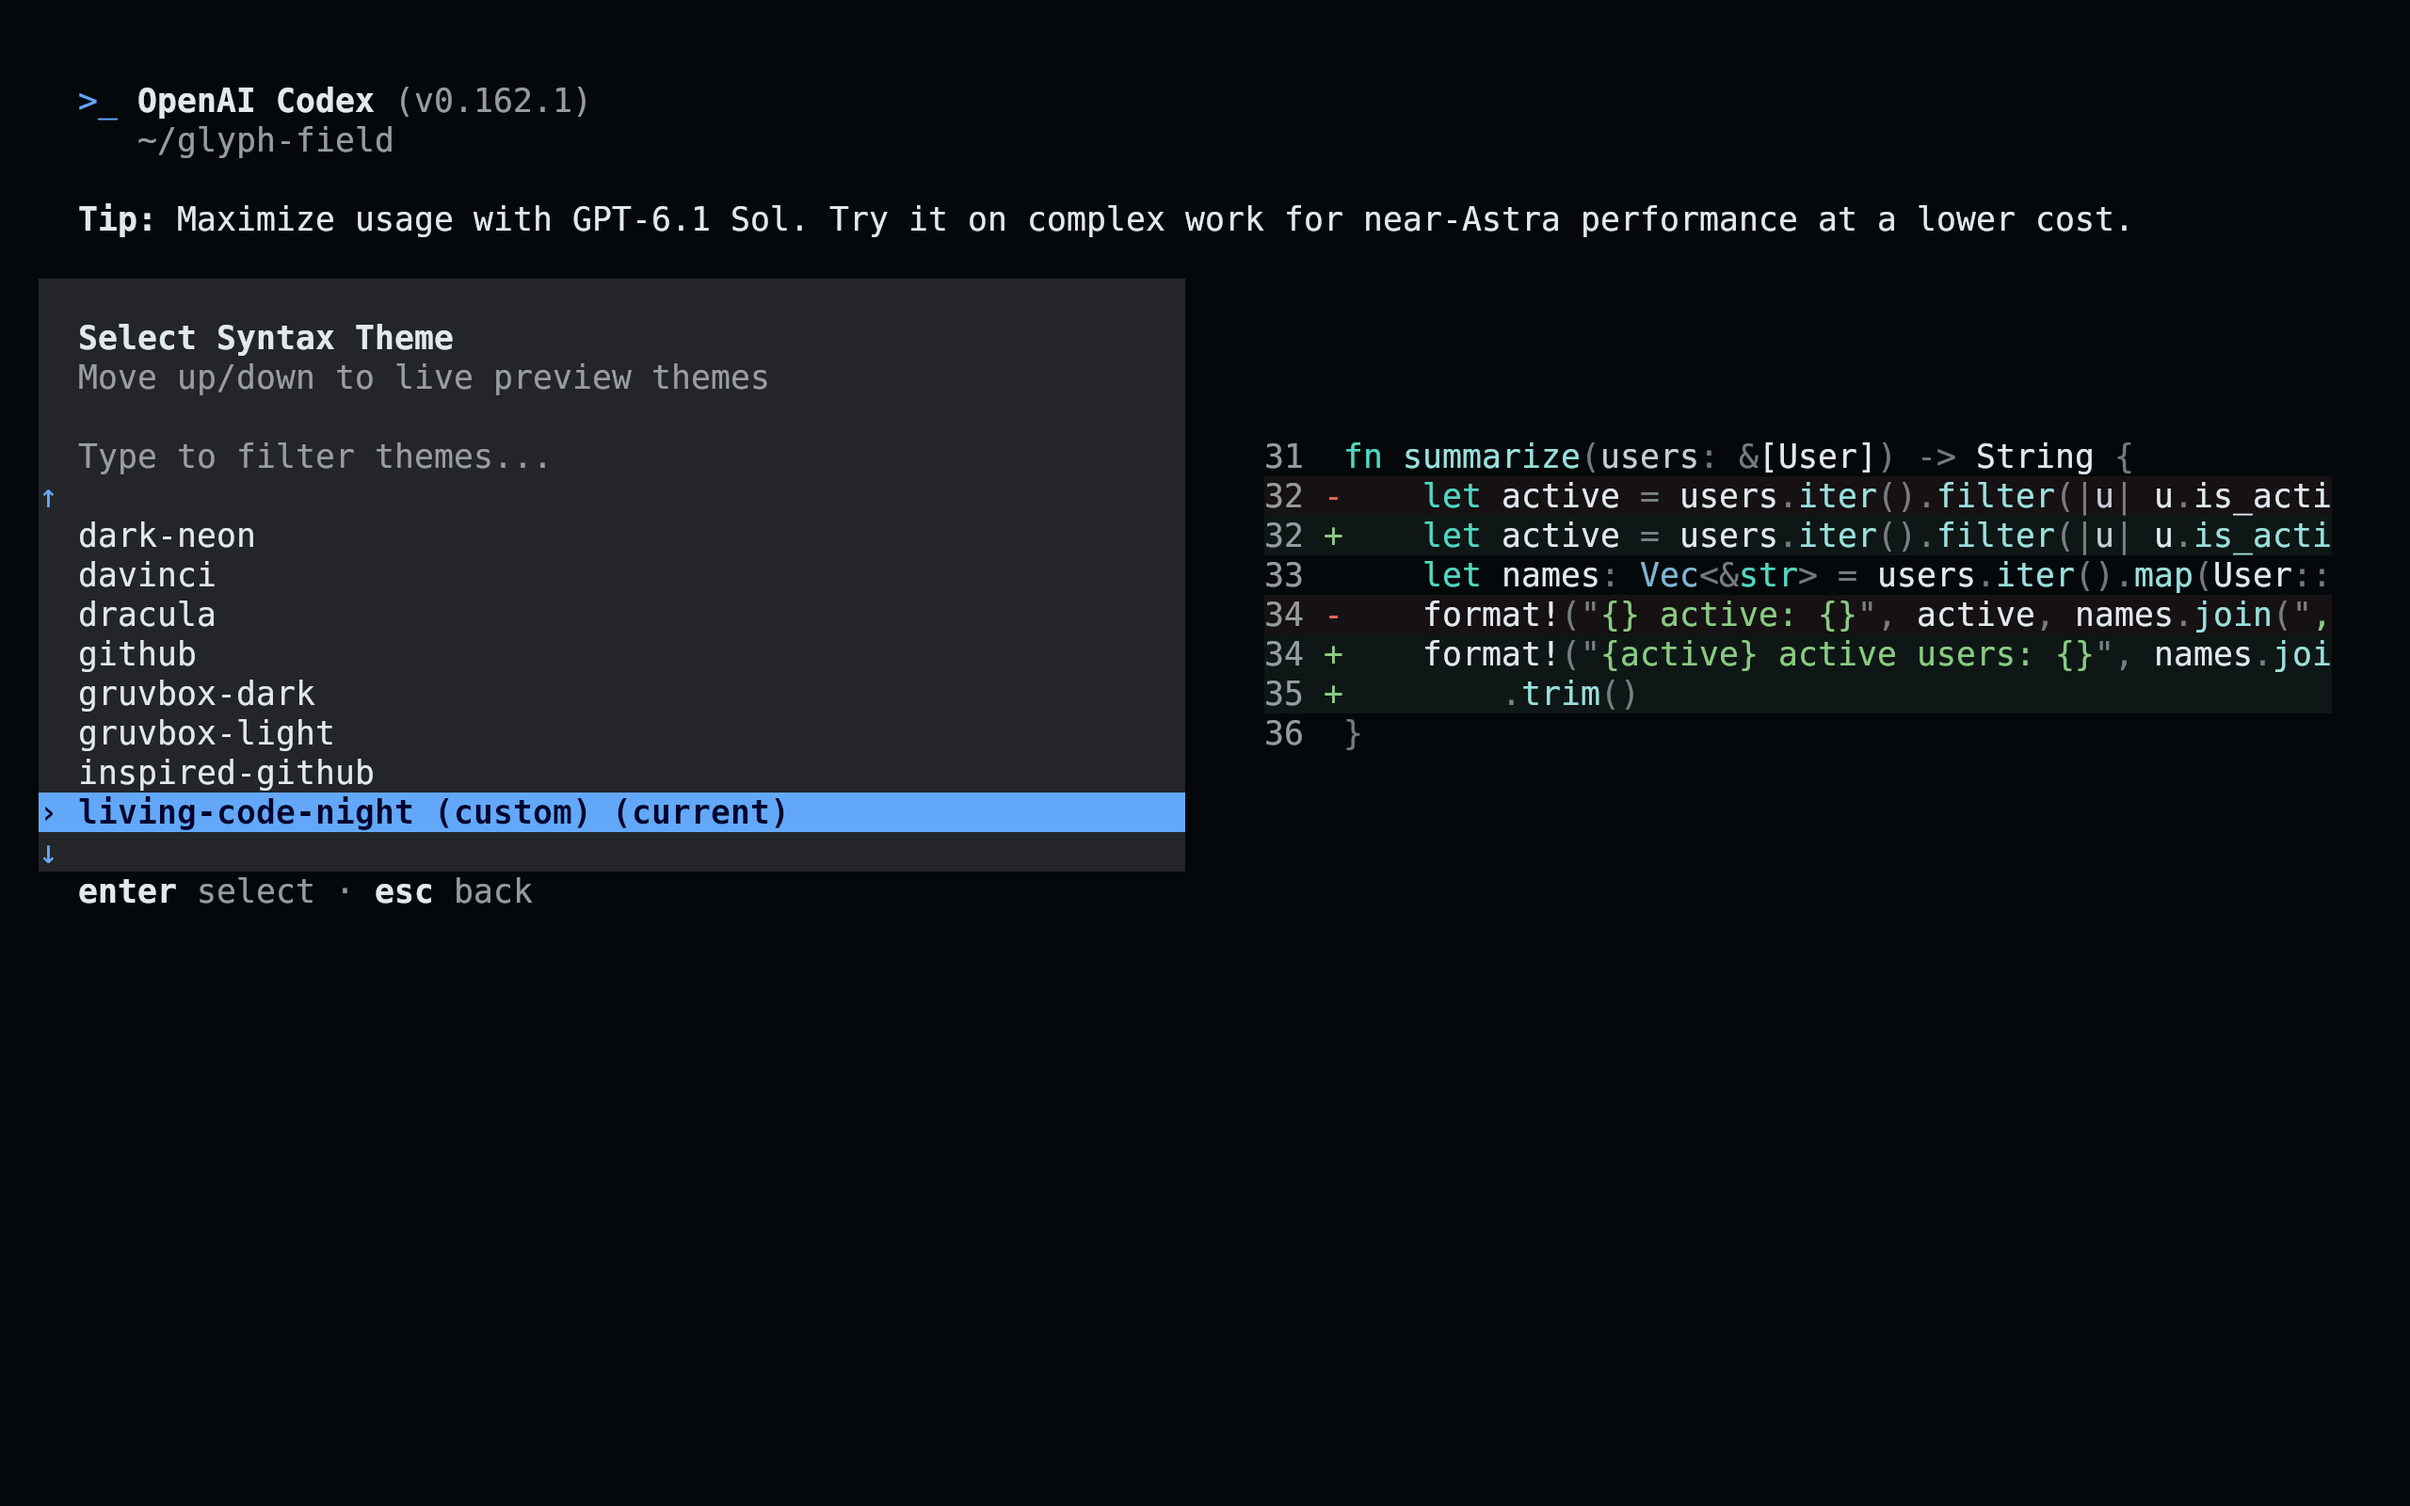
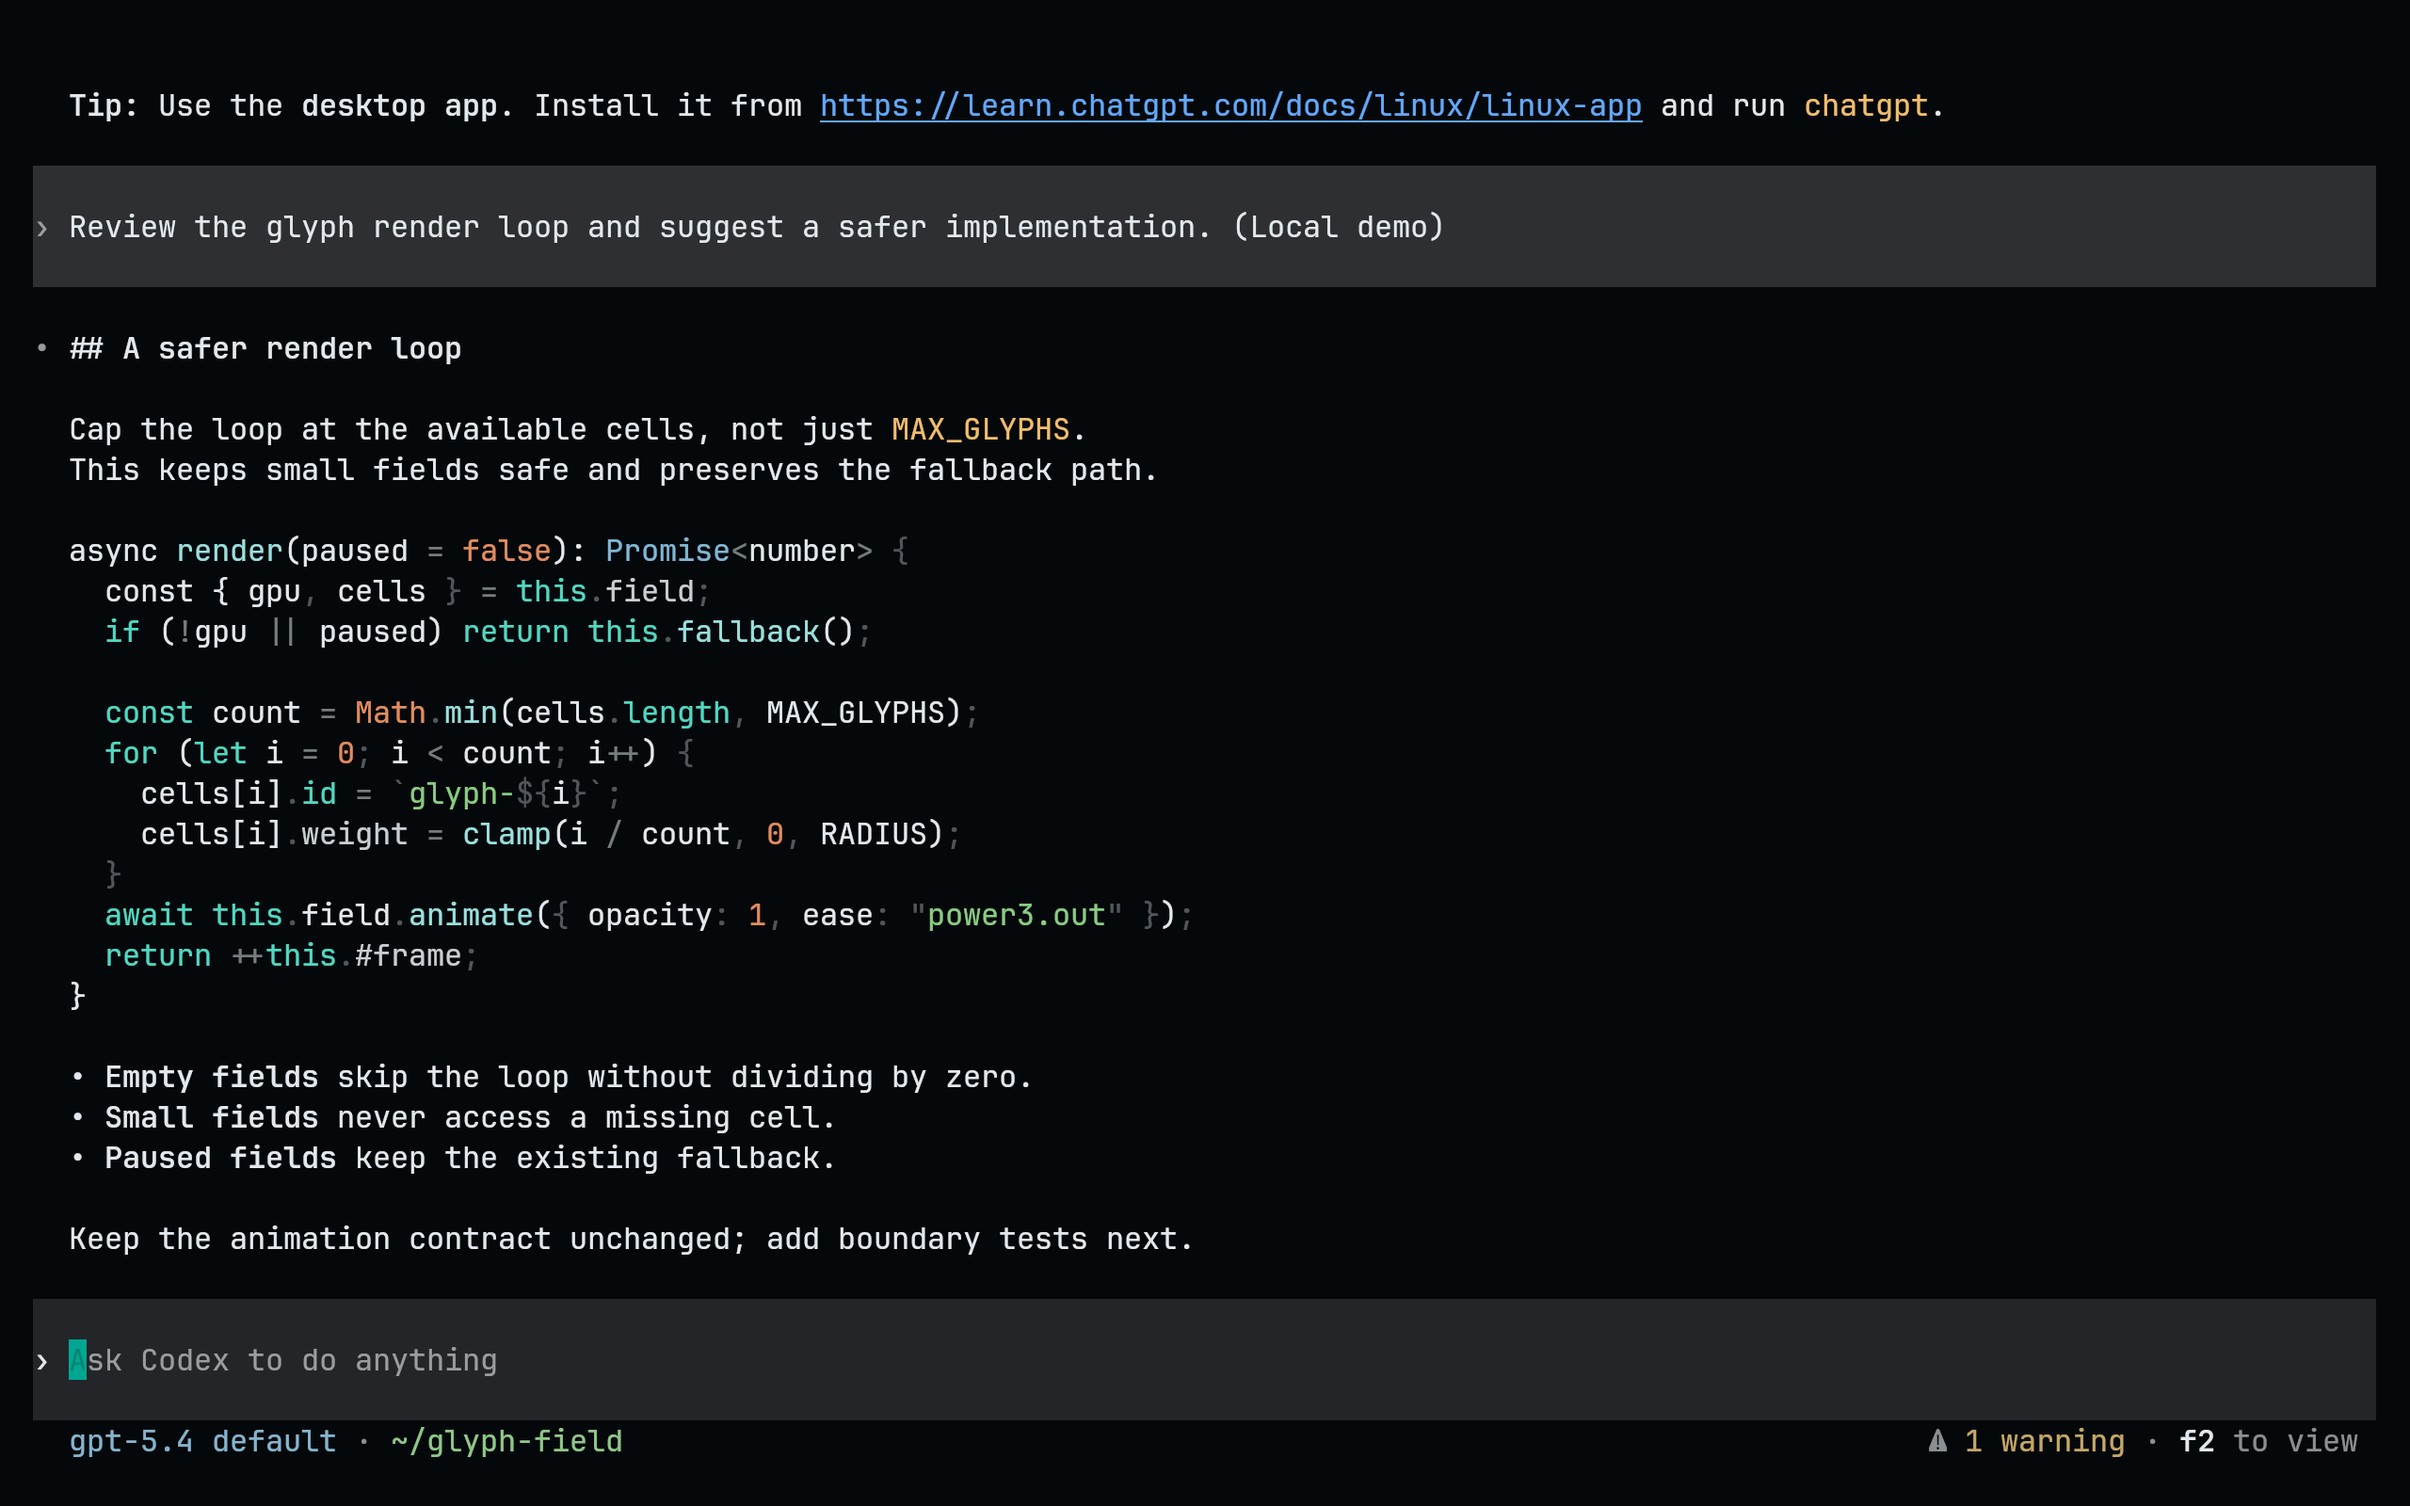
feat: refresh native review previews and verify syntax roles

diff --git a/capture/app.py b/capture/app.py
@@ -1,13 +1,18 @@
-"""Use Codex's real theme picker and native sample-code preview, without inference."""
+"""Resume a port-owned demo rollout in Codex. No credentials or inference."""
+import json
+
+
+SESSION = 'a40d1e4c-1150-4000-8000-000000000010'
 
 
 def prepare(c):
     c.git_fixture()
     c.copy(f'themes/{c.slug}.tmTheme', f'.codex/themes/{c.slug}.tmTheme')
     c.write('.codex/config.toml', f'''model_provider = "capture"
-model = "fixture"
+model = "gpt-5.4"
+check_for_update_on_startup = false
 [model_providers.capture]
-name = "Local screenshot fixture (offline)"
+name = "Local demo (offline)"
 base_url = "http://127.0.0.1:9/v1"
 wire_api = "responses"
 requires_openai_auth = false
@@ -17,12 +22,22 @@ theme = "{c.slug}"
 trust_level = "trusted"
 ''')
     c.env['CODEX_HOME'] = str(c.home / '.codex')
-    return ['codex', '--no-alt-screen']
+    timestamp = '2026-01-01T12:00:00.000Z'
+    prompt = 'Review the glyph render loop and suggest a safer implementation. (Local demo)'
+    review = (c.root / 'capture/review.md').read_text()
+    records = [
+        ('session_meta', {'id': SESSION, 'session_id': SESSION, 'timestamp': timestamp, 'cwd': str(c.work),
+                          'originator': 'codex_cli_rs', 'cli_version': '0.162.1', 'source': 'cli', 'model_provider': 'capture'}),
+        ('response_item', {'type': 'message', 'role': 'user', 'content': [{'type': 'input_text', 'text': prompt}]}),
+        ('event_msg', {'type': 'user_message', 'message': prompt, 'images': []}),
+        ('response_item', {'type': 'message', 'role': 'assistant', 'content': [{'type': 'output_text', 'text': review}],
+                           'phase': 'final_answer'}),
+        ('event_msg', {'type': 'agent_message', 'message': review, 'phase': 'final_answer'}),
+    ]
+    c.write(f'.codex/sessions/2026/01/01/rollout-2026-01-01T12-00-00-{SESSION}.jsonl',
+            '\n'.join(json.dumps({'timestamp': timestamp, 'type': kind, 'payload': payload}) for kind, payload in records) + '\n')
+    return ['codex', '--no-daemon', '--no-alt-screen', 'resume', SESSION]
 
 
 def drive(c):
-    c.wait_text(r'fixture default')
-    c.type('/theme')
-    c.wait_text(r'choose a syntax highlighting theme')
-    c.key('enter')
-    c.wait_text(r'filter themes|Choose a theme|Syntax highlighting theme|Theme preview|Select theme')
+    c.wait_text(r'add boundary tests next')

diff --git a/scripts/capture.py b/scripts/capture.py
@@ -185,7 +185,7 @@ export class FieldRenderer {
         role = lambda name: colors[self.flavor['roles'][name]]['hex']
         options = {'linux_display_server': 'x11', 'hide_window_decorations': 'yes', 'remember_window_size': 'no',
                    'initial_window_width': str(WIDTH), 'initial_window_height': str(HEIGHT),
-                   'font_family': 'DejaVu Sans Mono', 'font_size': '26', 'window_padding_width': '24',
+                   'font_family': 'JetBrains Mono', 'font_size': '24', 'window_padding_width': '24',
                    'cursor_blink_interval': '0', 'enable_audio_bell': 'no', 'allow_remote_control': 'yes',
                    'background': role('bg'), 'foreground': role('fg'), 'cursor': role('cursor'),
                    'selection_background': role('selection'), 'selection_foreground': role('fg')}

diff --git a/README.md b/README.md
@@ -107,11 +107,13 @@ codex -c 'tui.theme="living-code-signal"'
 
 To persist a choice manually, merge `theme = "living-code-night"` into the existing `[tui]` table of `${CODEX_HOME:-~/.codex}/config.toml`. The setting uses the filename stem, not the display name or `.tmTheme` extension. Each theme specifies both `markup.inserted` and `markup.deleted` backgrounds so Codex does not fall back to unrelated diff tints.
 
+Syntax scopes follow the [Living Code Neovim](https://github.com/living-code-theme/nvim/blob/main/lua/living-code/highlights.lua) role mappings in every flavor, including distinct operators, punctuation, parameters, properties and literal constants. Tests compare the shipped TextMate scopes to a pinned Neovim reference. Syntect’s grammar still determines which tokens it can recognize.
+
 ## Compatibility
 
 For Codex CLI versions with custom `.tmTheme` loading and the `/theme` picker. The theme is for the terminal CLI, not the Codex desktop app or VS Code extension. Codex deliberately preserves the host terminal background for ordinary code spans; pair the port with a matching Living Code terminal theme. Theme parsing and syntax scopes are tested; this does not assert that every Codex UI element is themeable.
 
-Previews are captured programmatically from the actual application in an isolated profile. See [`capture/app.py`](capture/app.py) for the app-owned recipe and [`images/capture.json`](images/capture.json) for runtime, palette and image provenance. No mock interface is drawn.
+Previews are captured programmatically from the actual application in an isolated profile. See [`capture/app.py`](capture/app.py) for the app-owned recipe and [`images/capture.json`](images/capture.json) for runtime, palette and image provenance. No mock interface is drawn. The conversation is a labeled, repository-owned local demo, not a private session or a live model response. Recapturing needs no account, subscription or paid API call.
 
 ## Contributing
 

diff --git a/capture/review.md b/capture/review.md
@@ -1,0 +1,25 @@
+## A safer render loop
+
+Cap the loop at the available cells, not just `MAX_GLYPHS`.
+This keeps small fields safe and preserves the fallback path.
+
+```typescript
+async render(paused = false): Promise<number> {
+  const { gpu, cells } = this.field;
+  if (!gpu || paused) return this.fallback();
+
+  const count = Math.min(cells.length, MAX_GLYPHS);
+  for (let i = 0; i < count; i++) {
+    cells[i].id = `glyph-${i}`;
+    cells[i].weight = clamp(i / count, 0, RADIUS);
+  }
+  await this.field.animate({ opacity: 1, ease: "power3.out" });
+  return ++this.#frame;
+}
+```
+
+- **Empty fields** skip the loop without dividing by zero.
+- **Small fields** never access a missing cell.
+- **Paused fields** keep the existing fallback.
+
+Keep the animation contract unchanged; add boundary tests next.
